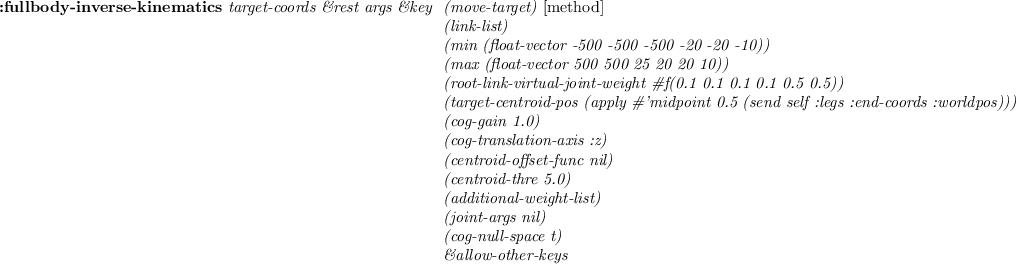
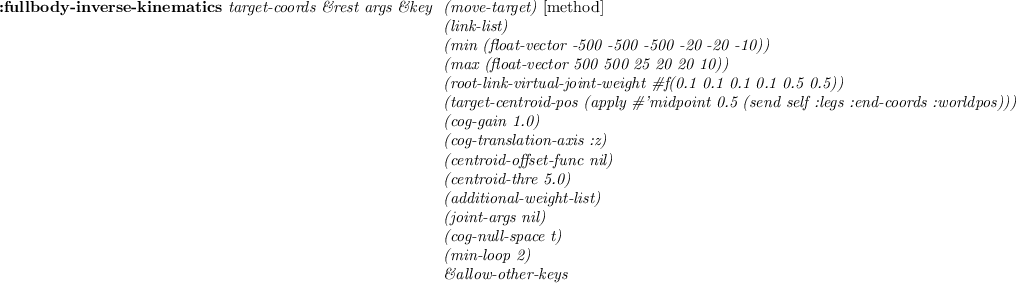
Update jskeus form https://github.com/euslisp/jskeus/tree/7c5f821d16132291b8b24c55ec668a1efa5edfc5

Changed region(s): [[0.0, 0.0, 1.0, 1.0]]

diff --git a/docs/jskeus/jmanual.md b/docs/jskeus/jmanual.md
@@ -1904,9 +1904,9 @@ dump log only in fail (for success/fail log and ik debug information
 log). nil : do not dump log.
 
 ![\\begin{emtabbing} {\\bf
-:inverse-kinematics-for-closed-loop-forward-kinematics} ... ...\\\>
-(constrained-joint-angle-list) \\\\ \\\> \\&allow-other-keys \\rm
-\\end{emtabbing}](jmanual-img193.png)
+:inverse-kinematics-for-closed-loop-forward-kinematics} ...
+...t-angle-list) \\\\ \\\> (min-loop 2) \\\\ \\\> \\&allow-other-keys
+\\rm \\end{emtabbing}](jmanual-img193.png)
 
 Solve inverse-kinematics for closed loop forward kinematics. Move
 move-target to target-coords with link-list. link-list loop should be
@@ -2313,7 +2313,7 @@ all-torque \\&key... ...(send self limb :end-coords)) \\\\lq
 Calculates end-effector force and moment from joint torques.
 
 ![\\begin{emtabbing} {\\bf :fullbody-inverse-kinematics} \\it
-target-coords \\&rest a... ...gs nil) \\\\ \\\> (cog-null-space t) \\\\
+target-coords \\&rest a... ...null-space t) \\\\ \\\> (min-loop 2) \\\\
 \\\> \\&allow-other-keys \\rm \\end{emtabbing}](jmanual-img200.png)
 
 fullbody inverse kinematics for legged robot. necessary args :
